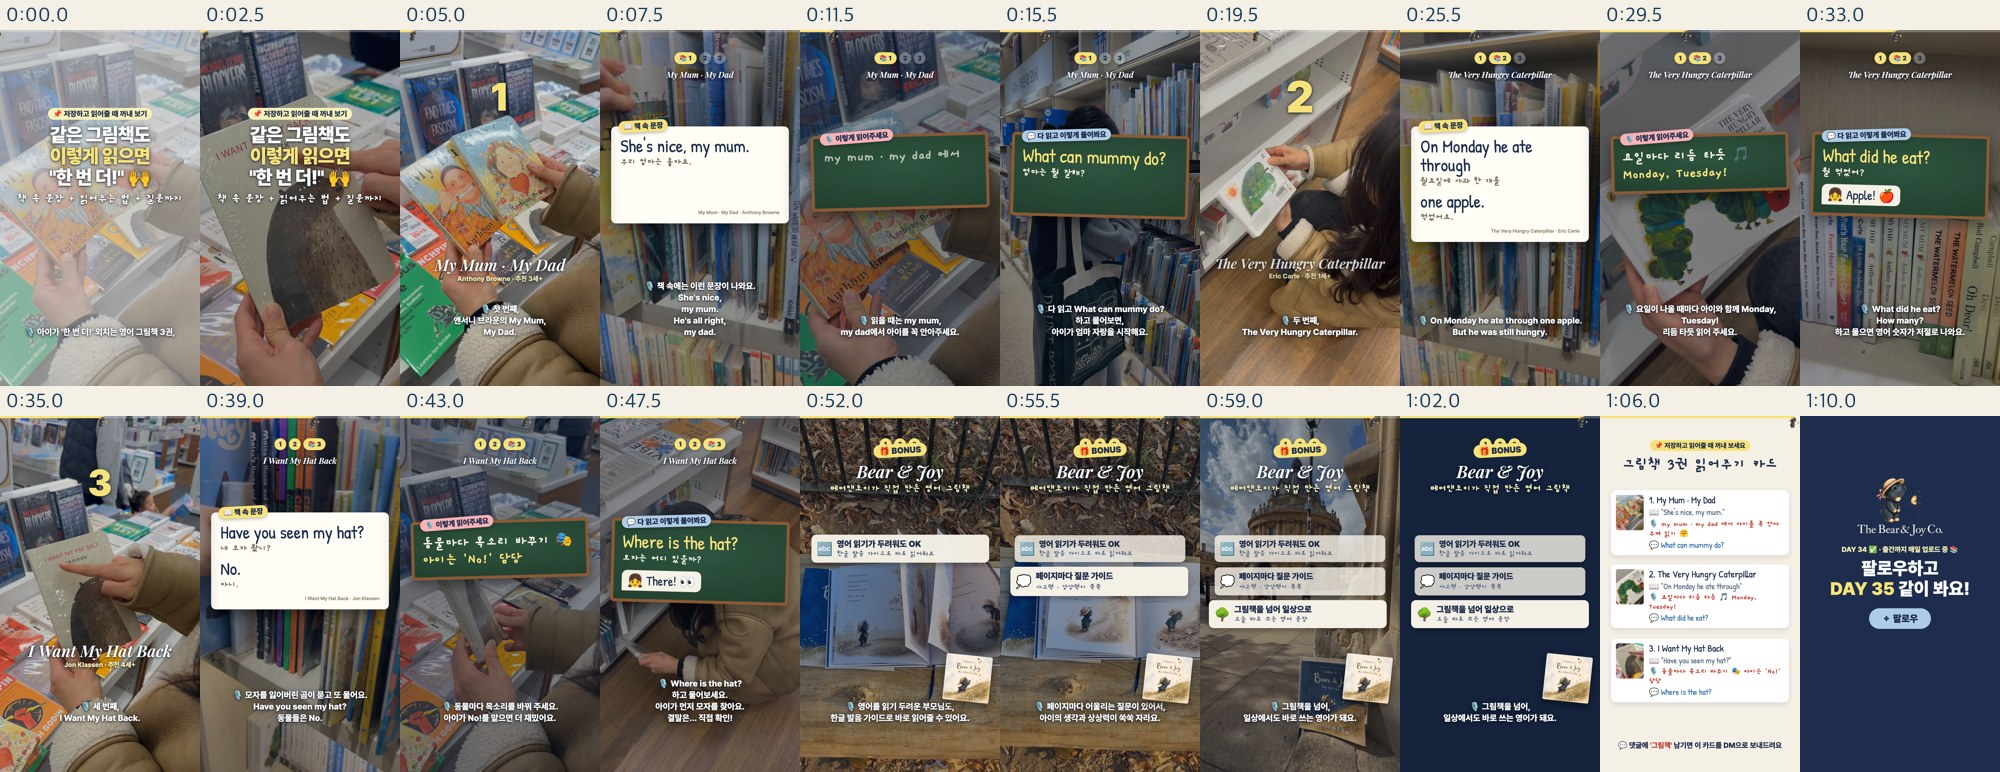
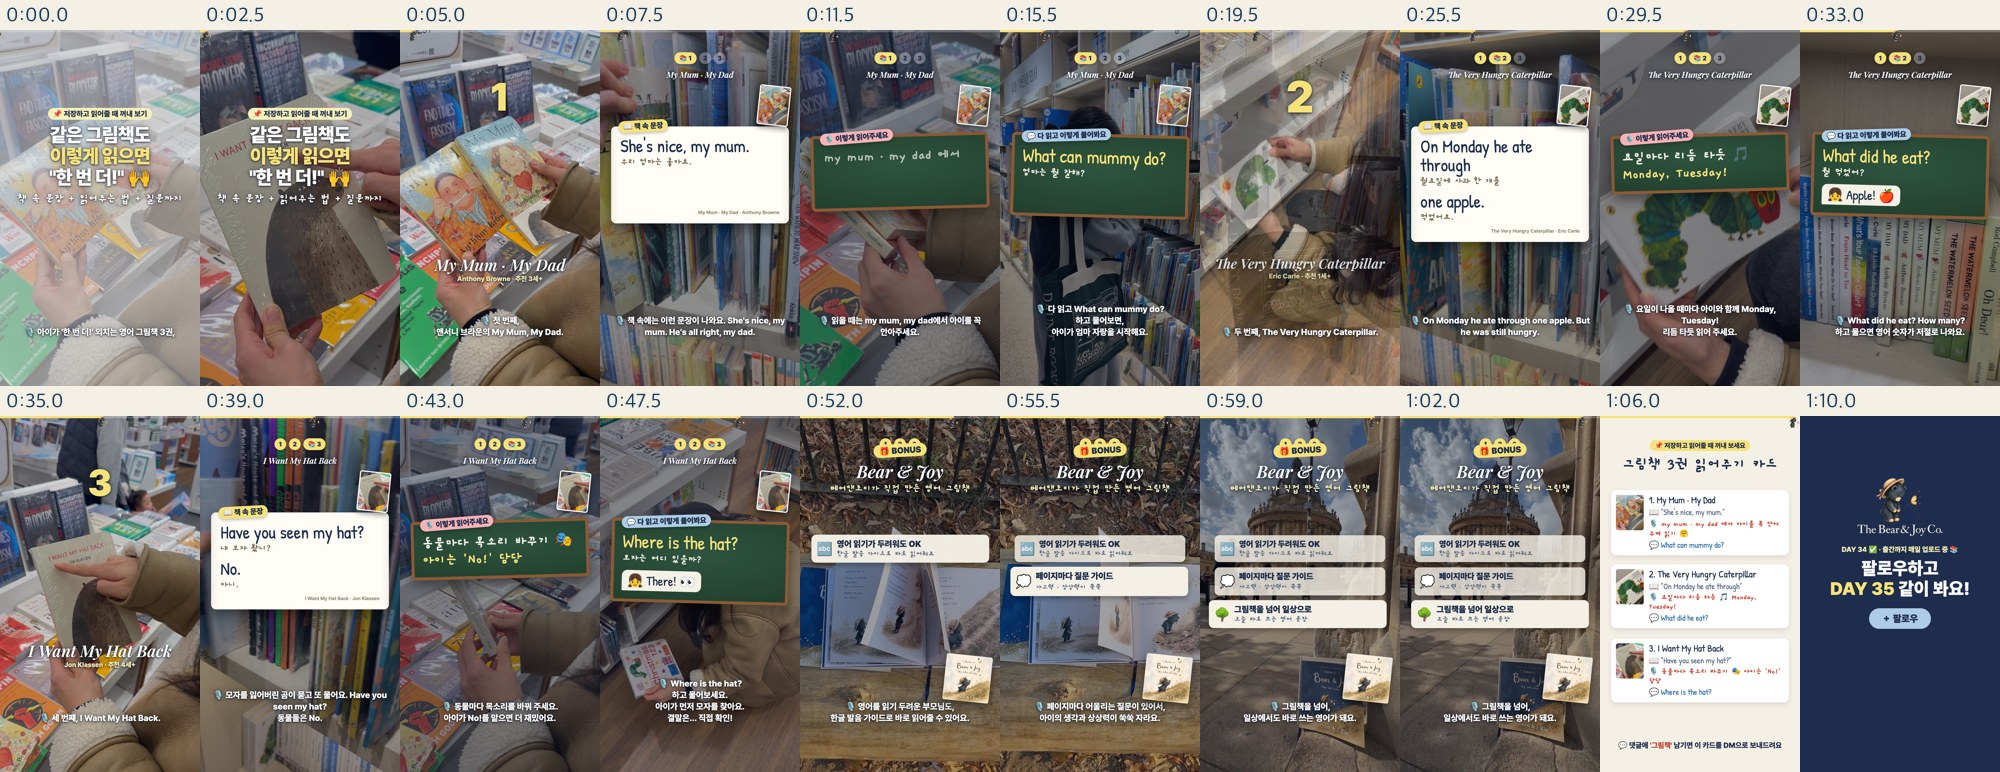
DAY 34 (Joy): no frozen frames (clip starts fit), soft dissolves between shots, small book cover beside each sentence/tip/question card

diff --git a/remotion/src/BookGuide.tsx b/remotion/src/BookGuide.tsx
@@ -144,6 +144,13 @@ export const BookGuide: React.FC<{plan: GuidePlan}> = ({plan}) => {
       {sec.kind === 'page' && b ? <PageCard b={b} t={t} s={sec.s} fps={fps} /> : null}
       {(sec.kind === 'read' || sec.kind === 'ask') && b ? <TipCard b={b} kind={sec.kind} t={t} s={sec.s} fps={fps} /> : null}
       {sec.book && sec.kind !== 'cover' ? <Tabs book={sec.book} /> : null}
+      {/* Joy: the book's cover sits small at the top right while its sentence, reading tip and question are on screen */}
+      {b && ['page', 'read', 'ask'].includes(sec.kind) ? (() => {
+        const first = plan.sections.find((x) => x.book === sec.book && x.kind === 'page')!.s;
+        const k = sp(t, first, fps, 11);
+        return <Img src={staticFile(`${plan.media}/covers/${b.cover}`)} style={{position: 'absolute', right: 56, top: 300, width: 170, height: 215, objectFit: 'cover', borderRadius: 12,
+          border: '6px solid #fff', boxShadow: '0 14px 30px rgba(0,0,0,.45)', transform: `rotate(6deg) scale(${.6 + .4 * k})`, opacity: Math.min(1, k * 2), zIndex: 5}} />;
+      })() : null}
       {sec.book && sec.kind !== 'cover' && b ? (
         <div style={{position: 'absolute', top: 210, left: 0, right: 0, textAlign: 'center', fontFamily: "'Playfair Display', serif", fontStyle: 'italic', fontWeight: 600, fontSize: 44, color: '#fff', textShadow: SHADOW}}>{b.title}</div>
       ) : null}
@@ -151,7 +158,7 @@ export const BookGuide: React.FC<{plan: GuidePlan}> = ({plan}) => {
       {/* the planned voice-over line (draft only, so Joy can follow the timing while recording) */}
       {plan.showVo && sec.vo ? (
         <div style={{position: 'absolute', left: 50, right: 50, bottom: 260, textAlign: 'center', fontWeight: 800, fontSize: 46, lineHeight: 1.35, color: '#fff', textShadow: SHADOW,
-          wordBreak: 'keep-all', whiteSpace: 'pre-line'}}>🎙 {sec.vo.replace(/([,.?!]) /g, '$1\n')}</div>
+          wordBreak: 'keep-all', whiteSpace: 'pre-line'}}>🎙 {sec.vo.replace(/([,.?!]) (?=[가-힣])/g, '$1\n')}</div>
       ) : null}
 
       {/* SAVE CARD (Joy: a clean page, not a chalkboard) */}

diff --git a/projects/2026-11-day34-bookguide/build.py b/projects/2026-11-day34-bookguide/build.py
@@ -17,20 +17,20 @@ SECTIONS = [
     ("hook", 0, 1.6, f"{D32}/b4.mov", 2.0, "책 속 문장이랑 읽어주는 법까지 알려드릴게요!"),
     ("cover", 1, 2.2, f"{T3}/book3.mov", 0.5, "첫 번째, 앤서니 브라운의 My Mum, My Dad."),
     ("page", 1, 4.2, f"{D32}/b2.mov", 0.3, "책 속에는 이런 문장이 나와요. She's nice, my mum. He's all right, my dad."),
-    ("read", 1, 4.0, f"{T3}/book3.mov", 9.3, "읽을 때는 my mum, my dad에서 아이를 꼭 안아주세요."),
+    ("read", 1, 4.0, f"{T3}/book3.mov", 8.5, "읽을 때는 my mum, my dad에서 아이를 꼭 안아주세요."),
     ("ask", 1, 4.4, f"{D32}/b1.mov", 0.3, "다 읽고 What can mummy do? 하고 물어보면, 아이가 엄마 자랑을 시작해요."),
     ("cover", 2, 2.2, f"{T3}/book2.mov", 2.5, "두 번째, The Very Hungry Caterpillar."),
-    ("page", 2, 4.4, f"{D32}/b2.mov", 3.0, "On Monday he ate through one apple. But he was still hungry."),
+    ("page", 2, 4.4, f"{D32}/b2.mov", 2.3, "On Monday he ate through one apple. But he was still hungry."),
     ("read", 2, 4.0, f"{T3}/book2.mov", 7.0, "요일이 나올 때마다 아이와 함께 Monday, Tuesday! 리듬 타듯 읽어 주세요."),
     ("ask", 2, 4.2, f"{D32}/b6.mov", 0.3, "What did he eat? How many? 하고 물으면 영어 숫자가 저절로 나와요."),
     ("cover", 3, 2.2, f"{T3}/book1.mov", 0.0, "세 번째, I Want My Hat Back."),
     ("page", 3, 4.0, f"{D32}/b2.mov", 1.5, "모자를 잃어버린 곰이 묻고 또 물어요. Have you seen my hat? 동물들은 No."),
     ("read", 3, 4.0, f"{T3}/book1.mov", 4.5, "동물마다 목소리를 바꿔 주세요. 아이가 No!를 맡으면 더 재밌어요."),
-    ("ask", 3, 4.6, f"{T3}/clip4.mov", 3.5, "Where is the hat? 하고 물어보세요. 아이가 먼저 모자를 찾아요. 결말은… 직접 확인!"),
+    ("ask", 3, 4.6, f"{T3}/clip4.mov", 2.5, "Where is the hat? 하고 물어보세요. 아이가 먼저 모자를 찾아요. 결말은… 직접 확인!"),
     # BONUS (Joy, 17 Nov): our own book, Bear & Joy, filmed in Oxford
     ("bonus", 4, 2.6, "raw-footage/day34/n1_sdr.mov", 1.5, "그리고 보너스! 저희가 만든 그림책, Bear & Joy예요."),
-    ("bonus1", 4, 3.6, "raw-footage/day34/n4.mov", 2.0, "영어를 읽기 두려운 부모님도, 한글 발음 가이드로 바로 읽어줄 수 있어요."),
-    ("bonus2", 4, 3.6, "raw-footage/day34/n4.mov", 9.0, "페이지마다 어울리는 질문이 있어서, 아이의 생각과 상상력이 쑥쑥 자라요."),
+    ("bonus1", 4, 3.6, "raw-footage/day34/n4.mov", 1.4, "영어를 읽기 두려운 부모님도, 한글 발음 가이드로 바로 읽어줄 수 있어요."),
+    ("bonus2", 4, 3.6, "raw-footage/day34/n4.mov", 5.0, "페이지마다 어울리는 질문이 있어서, 아이의 생각과 상상력이 쑥쑥 자라요."),
     ("bonus3", 4, 3.4, "raw-footage/day34/n2_sdr.mov", 2.0, "그림책을 넘어, 일상에서도 바로 쓰는 영어가 돼요."),
     ("summary", 0, 5.4, None, 0, "저장해 두고 읽어줄 때 꺼내 보세요. 댓글에 그림책 남기면 정리 카드 보내드려요."),
     ("end", 0, 4.0, None, 0, ""),

diff --git a/projects/2026-11-day34-bookguide/cut.py b/projects/2026-11-day34-bookguide/cut.py
@@ -6,7 +6,7 @@ HERE = os.path.dirname(os.path.abspath(__file__)); V = f"{HERE}/versions/main"
 secs = json.load(open(f"{V}/sections_src.json"))
 ins, fc = [], []
 for k, x in enumerate(secs):
-    d = round(x["e"] - x["s"], 3)
+    d = round(x["e"] - x["s"] + 0.3, 3)
     if x["clip"]:
         ins += ["-ss", str(x["cs"]), "-t", str(d), "-i", x["clip"]]
         fc.append(f"[{k}:v]scale=1080:1920:force_original_aspect_ratio=increase,crop=1080:1920,setsar=1,fps=30,format=yuv420p,setpts=PTS-STARTPTS,"
@@ -14,6 +14,14 @@ for k, x in enumerate(secs):
     else:
         ins += ["-f", "lavfi", "-t", str(d), "-i", "color=c=0x1E2D4D:s=1080x1920:r=30"]
         fc.append(f"[{k}:v]format=yuv420p,setsar=1[v{k}]")
-fc.append("".join(f"[v{k}]" for k in range(len(secs))) + f"concat=n={len(secs)}:v=1:a=0[v]")
+# Joy (17 Nov): the flow felt choppy. Soft 0.3 s dissolves between shots; a section continuing the same clip runs straight on (no dissolve).
+X = 0.3
+prev = "v0"; t = secs[0]["e"] - secs[0]["s"]
+for k in range(1, len(secs)):
+    same = secs[k]["clip"] and secs[k]["clip"] == secs[k - 1]["clip"] and abs(secs[k]["cs"] - (secs[k - 1]["cs"] + secs[k - 1]["e"] - secs[k - 1]["s"])) < 0.05
+    hook = secs[k]["kind"] == "hook"
+    fc.append(f"[{prev}][v{k}]xfade=transition={'fade' if not (same or hook) else 'fade'}:duration={0.04 if (same or hook) else X}:offset={t - (0.04 if (same or hook) else X) / 2:.3f}[x{k}]")
+    prev = f"x{k}"; t += secs[k]["e"] - secs[k]["s"]
+fc.append(f"[{prev}]null[v]")
 subprocess.run(["ffmpeg", "-v", "error", "-y", *ins, "-filter_complex", ";".join(fc), "-map", "[v]", "-c:v", "h264_videotoolbox", "-b:v", "20M", f"{V}/cut.mov"], check=True)
 print("cut.mov")
